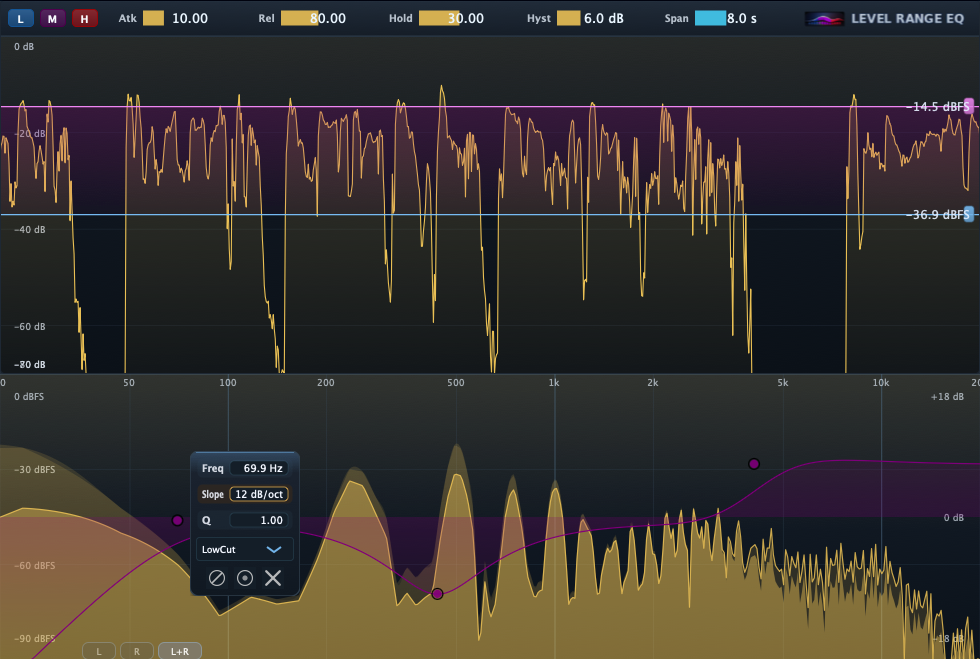
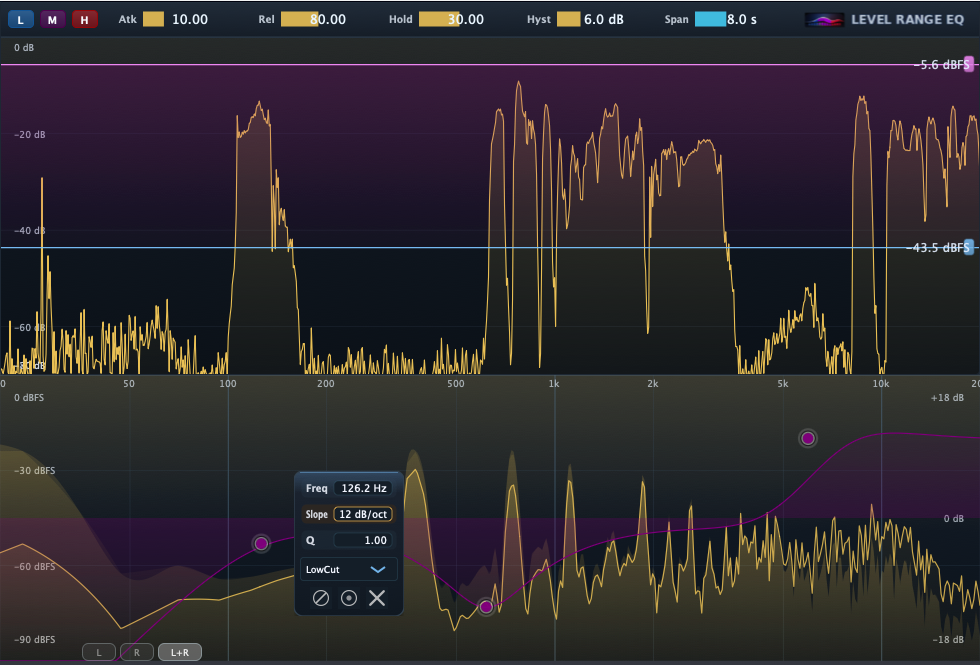
UI

diff --git a/support/levelrangeeq/index.html b/support/levelrangeeq/index.html
@@ -40,14 +40,14 @@
           <div>
             <h1 style="margin: 0">Level Range EQ</h1>
             <p class="muted" style="margin: 6px 0 0; font-size: 13px">
-              <strong>Version 1.4.0</strong> — <strong>Out now</strong>.
+              <strong>Version 1.5.0</strong> — <strong>Out now</strong>.
             </p>
             <p
               class="muted"
               style="margin: 6px 0 0; font-size: 12px; opacity: 0.85"
             >
-              Latest signed release: <strong>1.4.0</strong> •
-              <strong>2026-01-19</strong>
+              Latest signed release: <strong>1.5.0</strong> •
+              <strong>2026-01-23</strong>
             </p>
           </div>
         </div>
@@ -94,13 +94,13 @@
             >
               <a
                 class="btn"
-                href="https://github.com/bitterapple/bitterapple.github.io/releases/latest/download/LevelRangeEQ_1.4.0.pkg"
+                href="https://github.com/bitterapple/bitterapple.github.io/releases/latest/download/LevelRangeEQ_1.5.0.pkg"
                 style="font-weight: 700"
-                >Download LevelRangeEQ_1.4.0.pkg</a
+                >Download LevelRangeEQ_1.5.0.pkg</a
               >
             </div>
             <p class="muted" style="margin: 10px 0 0; font-size: 12px">
-              Latest stable download is <strong>1.4.0</strong> (AAX / AU /
+              Latest stable download is <strong>1.5.0</strong> (AAX / AU /
               VST3).
             </p>
           </div>
@@ -147,20 +147,20 @@
       <section class="section">
         <h2>What’s new</h2>
         <div class="card" style="margin: 0">
-          <h3 style="margin: 0 0 8px; font-size: 16px">Version 1.4.0</h3>
+          <h3 style="margin: 0 0 8px; font-size: 16px">Version 1.5.0</h3>
           <ul
             class="muted"
             style="margin: 0; padding-left: 18px; font-size: 13px"
           >
             <li>
-              <strong>Improved FFT behavior</strong> (smoother and more stable
-              spectrum response).
+              <strong>UI improvements</strong> (clearer workflow and
+              readability).
             </li>
-            <li>Various minor fixes and polish.</li>
+            <li><strong>Bug fixes</strong> and general polish.</li>
           </ul>
           <p class="muted" style="margin: 10px 0 0; font-size: 12px">
-            Previous: 1.3.0 was a bug fix release (fixes an issue found in
-            1.2.0).
+            Previous: 1.4.0 improved FFT behavior (smoother and more stable
+            spectrum response).
           </p>
         </div>
       </section>
@@ -169,6 +169,33 @@
         <h2>Release history</h2>
         <div class="card" style="margin: 0">
           <div class="muted" style="font-size: 13px">
+            <div
+              style="
+                display: flex;
+                justify-content: space-between;
+                gap: 12px;
+                flex-wrap: wrap;
+              "
+            >
+              <div>
+                <strong>1.5.0</strong>
+                <span style="opacity: 0.6; padding: 0 6px">•</span>
+                <span>2026-01-23</span>
+                <span style="opacity: 0.6; padding: 0 6px">•</span>
+                <span>UI improvements + bug fixes</span>
+              </div>
+              <div>
+                <a
+                  class="btn"
+                  href="https://github.com/bitterapple/bitterapple.github.io/releases/latest/download/LevelRangeEQ_1.5.0.pkg"
+                  style="padding: 8px 12px"
+                  >Download 1.5.0</a
+                >
+              </div>
+            </div>
+
+            <div style="height: 10px"></div>
+
             <div
               style="
                 display: flex;
@@ -304,7 +331,7 @@
             </div>
           </div>
           <p class="muted" style="margin: 10px 0 0; font-size: 12px">
-            Tip: Install the latest signed version (1.4.0).
+            Tip: Install the latest signed version (1.5.0).
           </p>
         </div>
       </section>
@@ -354,7 +381,7 @@
             <strong>AU</strong>, or <strong>VST3</strong>.
           </li>
           <li>
-            Installer: <code>LevelRangeEQ_1.4.0.pkg</code> (download above).
+            Installer: <code>LevelRangeEQ_1.5.0.pkg</code> (download above).
           </li>
         </ul>
         <p class="muted" style="margin: 10px 0 0; font-size: 12px">
@@ -372,8 +399,8 @@
           <li>
             Download
             <a
-              href="https://github.com/bitterapple/bitterapple.github.io/releases/latest/download/LevelRangeEQ_1.4.0.pkg"
-              >LevelRangeEQ_1.4.0.pkg</a
+              href="https://github.com/bitterapple/bitterapple.github.io/releases/latest/download/LevelRangeEQ_1.5.0.pkg"
+              >LevelRangeEQ_1.5.0.pkg</a
             >.
           </li>
           <li>
